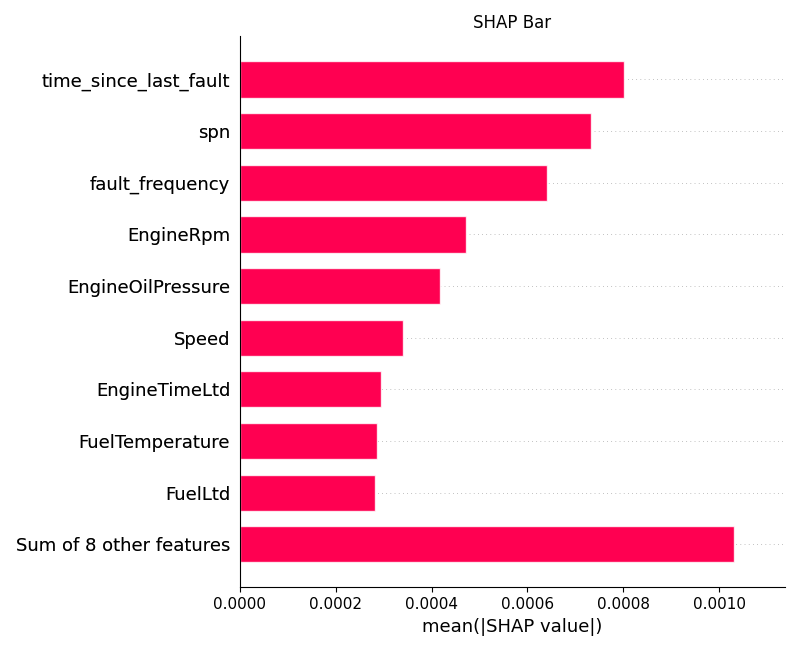
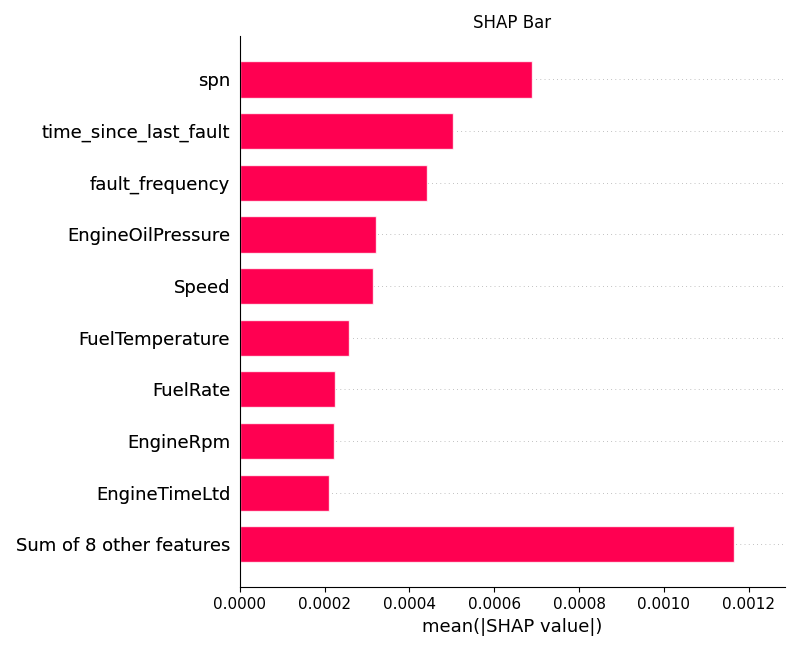
changed sample size for shap, added model.describe()

diff --git a/notebooks/master.py b/notebooks/master.py
@@ -382,14 +382,19 @@ model = ydf.GradientBoostedTreesLearner(
 ).train(train_df)
 print("Model training complete.")
 
+# Model Description:
+print("----Model Description----")
+print(model.describe())
+print("-------------------------\n")
+
 # --- SHAP Analysis ---
 print("\n--- Running SHAP Analysis ---")
 background = (
-    X_train.sample(n=100, random_state=42) if len(X_train) > 100 else X_train
+    X_train.sample(n=500, random_state=42) if len(X_train) > 500 else X_train
 )
 explainer = shap.Explainer(model.predict, background)
 X_test_sample = (
-    X_test.sample(n=100, random_state=42) if len(X_test) > 100 else X_test
+    X_test.sample(n=500, random_state=42) if len(X_test) > 500 else X_test
 )
 shap_values = explainer(X_test_sample)
 
